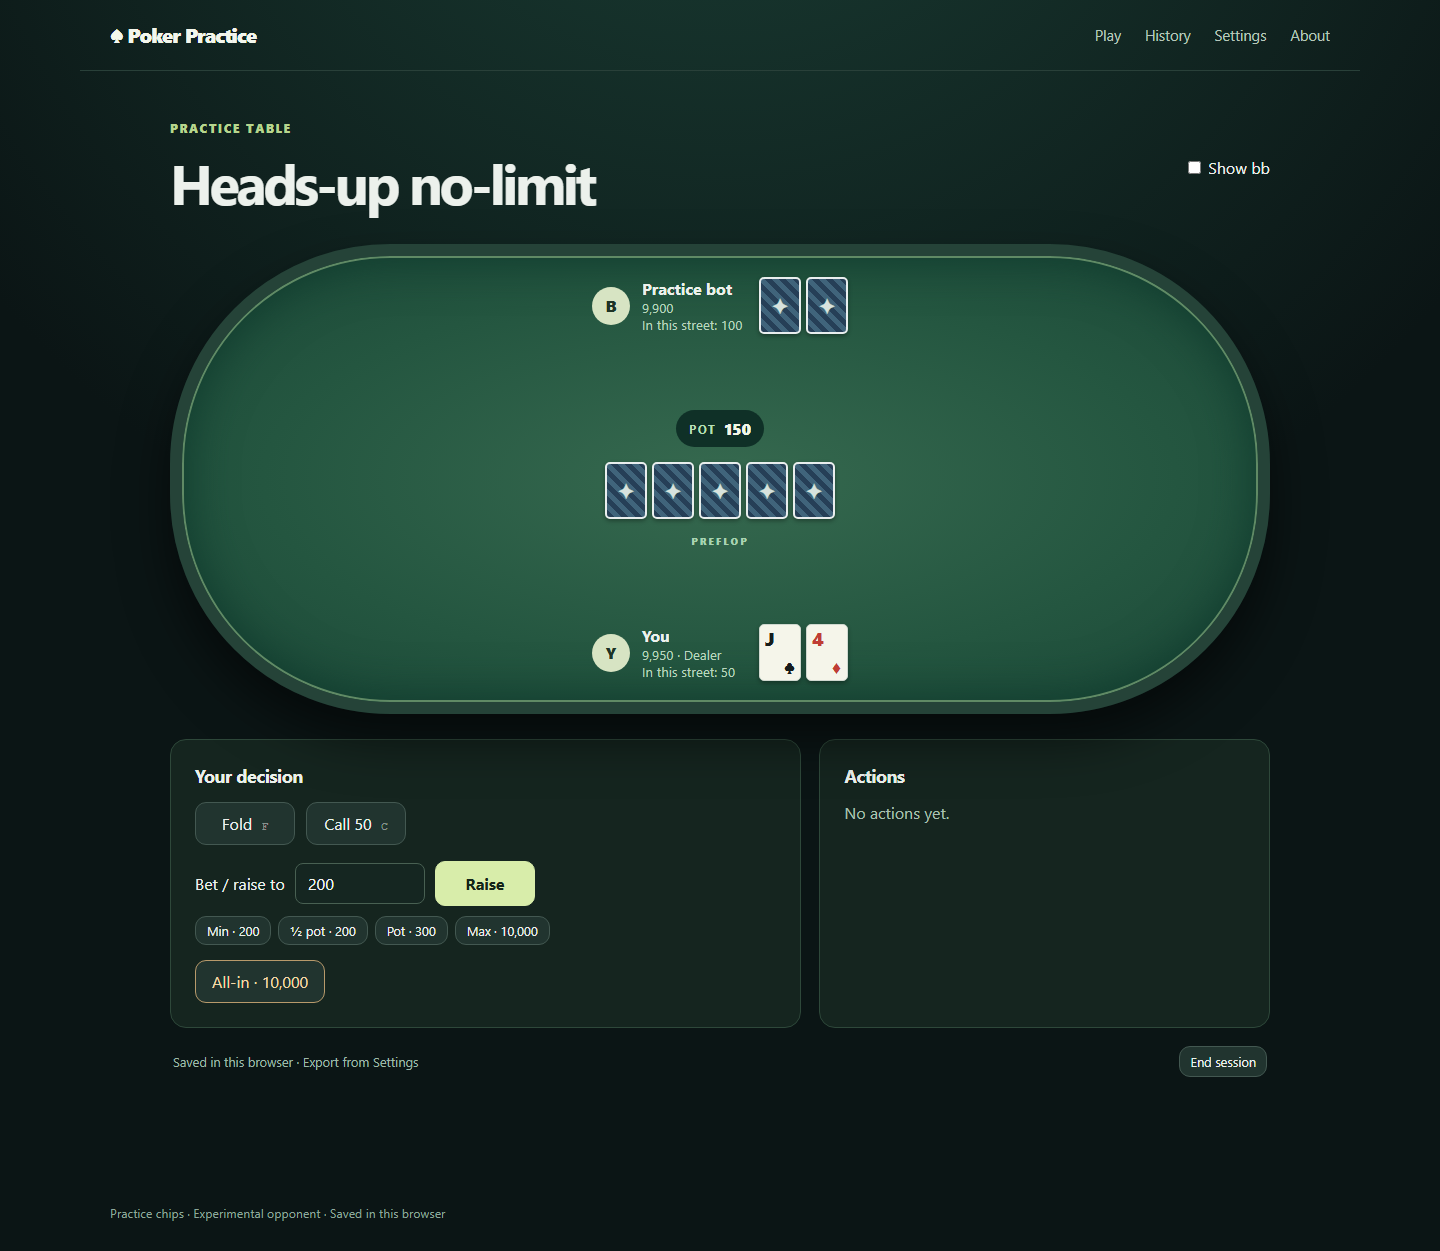
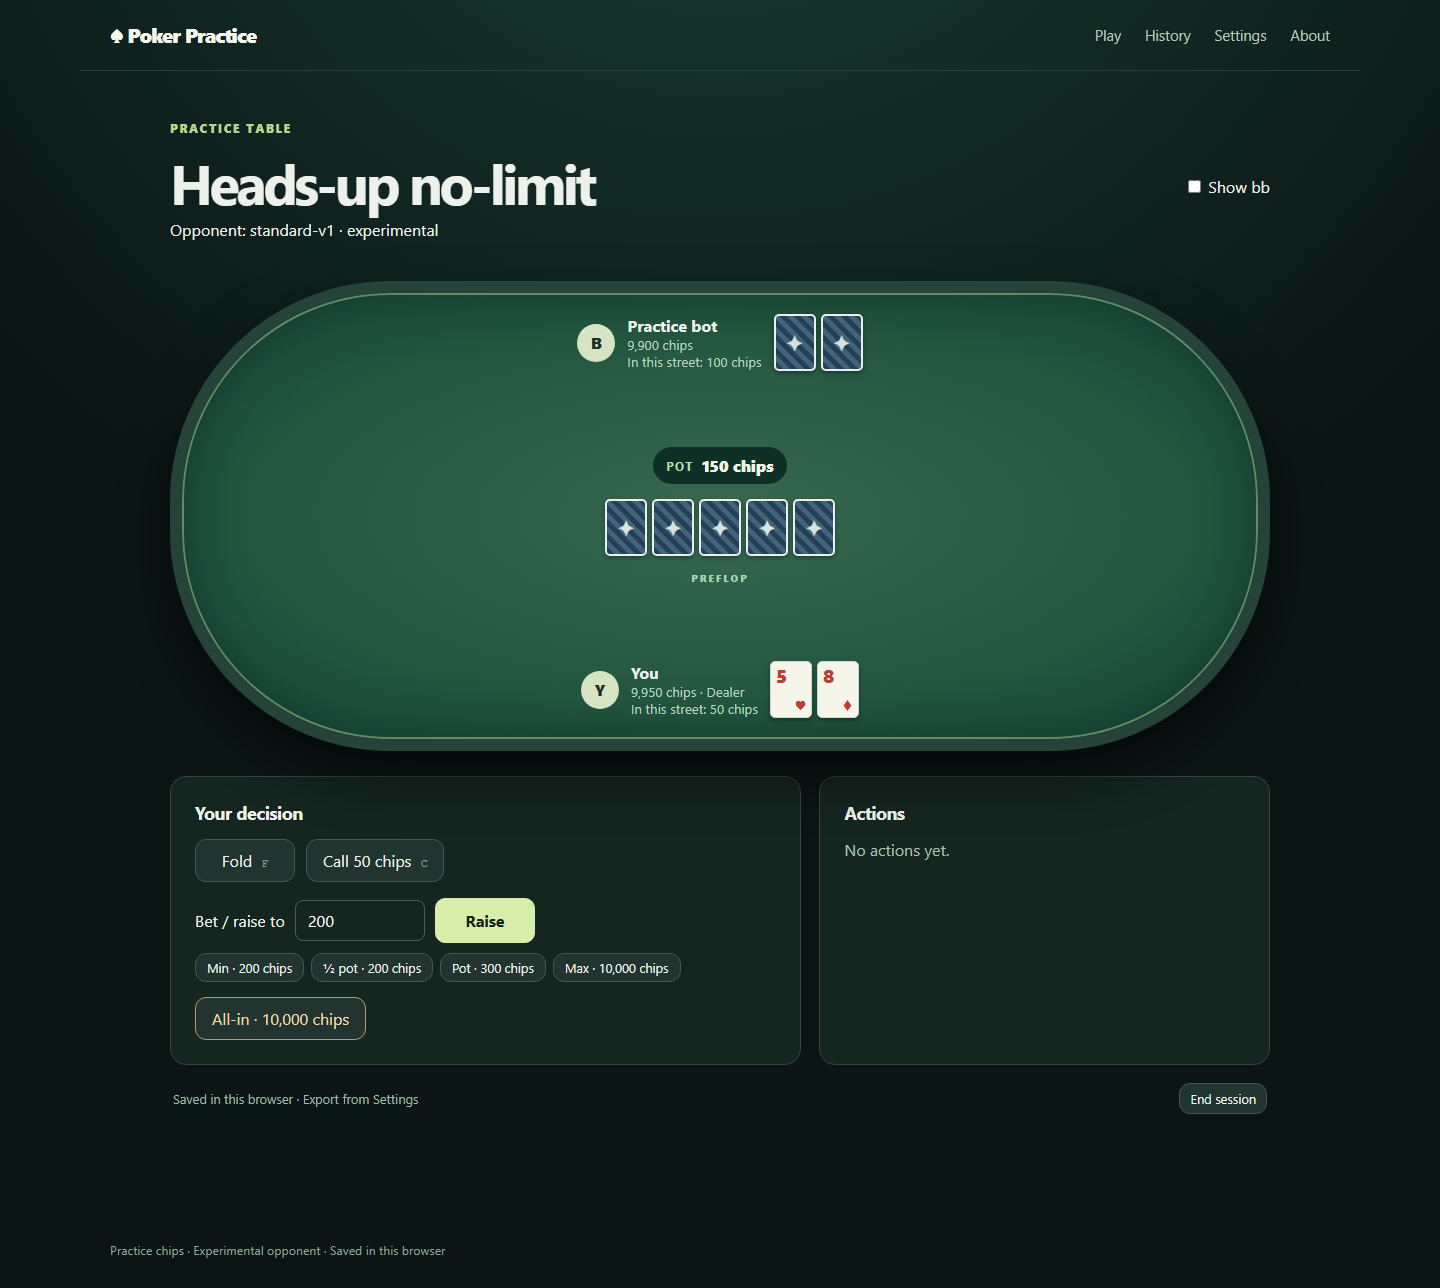
Replace screenshots from candidate 911e9e90 dist (evidence commit)

diff --git a/PLAN.md b/PLAN.md
@@ -60,7 +60,7 @@ Ordered tasks: [roadmap.md](roadmap.md). Deployment access can be checked indepe
 - Evidence (2026-10-01, Candidate_Commit):
   - Vitest: pass, 75 passed / 0 failed
   - three-browser suite (review, missing review, export, deletion, keyboard, 390px): pass, 105 passed / 0 failed
-  - replacement screenshots from the Candidate_Commit `dist`: not run
+  - replacement screenshots from the Candidate_Commit `dist`: pass (2026-10-01; Chromium via `tools/serve-dist.mjs`, entry chunk `/assets/index-B-oJAD1B.js` with the Candidate SHA embedded; `table-desktop.png` 1440x1288, `review-desktop.png` 1440x931, `table-mobile.png` 390x1421; no deferred-feature UI)
 
 ### MVP-4 Publish and verify
 
